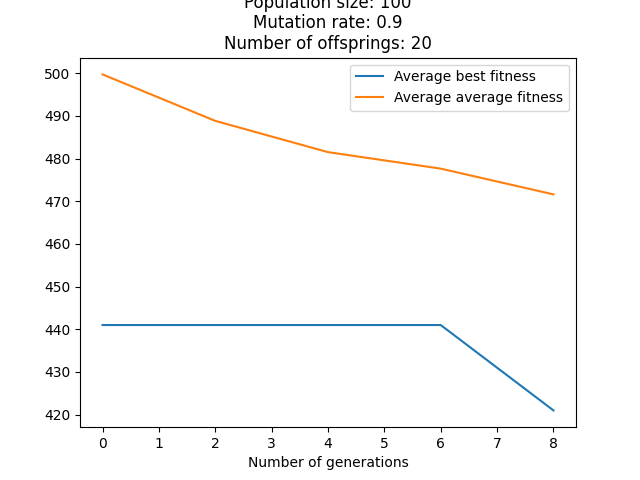
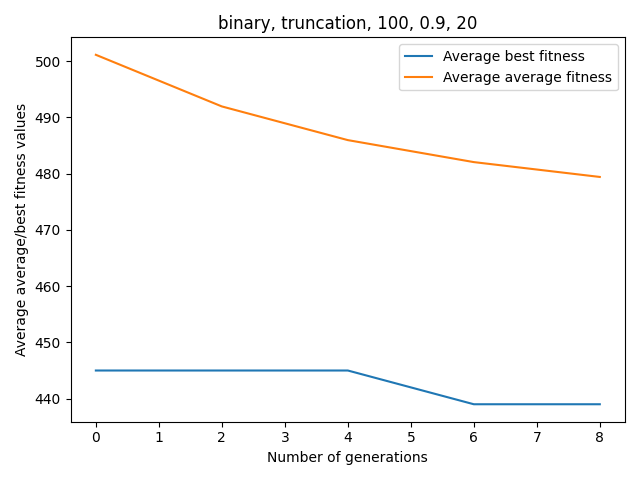
gantt chart formatting

diff --git a/jss.py b/jss.py
@@ -7,6 +7,7 @@ from tqdm import tqdm
 from evolutionary_algorithm import Individual, EvolutionaryAlgorithm
 import matplotlib.pyplot as plt
 import plotly.figure_factory as ff
+import plotly.colors as plc
 
 ''' Loading dataset '''
 
@@ -42,8 +43,16 @@ def read_dataset(dataset_path: str) -> dict:
 datasets = read_dataset(dataset_path=dataset_path)
 current_dataset = datasets['abz7']
 
-
-
+# Deciding colors for 
+# colors = {}
+# for i in range(current_dataset["num_jobs"]):
+#     color = (np.random.uniform(), np.random.uniform(), np.random.uniform())
+#     colors["Job-"+str(i)] = color
+tasks = ['Job-'+str(i) for i in range(current_dataset["num_jobs"])]
+# Generate a list of distinct colors for the tasks
+pallette = plc.qualitative.Alphabet
+# Create a dictionary to map tasks to colors
+colors = dict(zip(tasks, pallette))
 
 
 
@@ -66,15 +75,16 @@ def calculate_schedule_time(job_schedule: list) -> float:
     jobs = copy.deepcopy(current_dataset["jobs"])
     num_jobs = len(jobs)
     while jobs != [None] * num_jobs:
-        for index, job_number in enumerate(job_schedule):
-            if not job_currently_in_any_machine(job_number, machines_dict):
-                machine_number = jobs[job_number][0][0]
-                if(machines_dict[machine_number] == None):
-                    machine_number, time_step = jobs[job_number].pop()
-                    machines_dict[machine_number] = [job_number, time_step]
-                    del job_schedule[index]
-                    if(jobs[job_number] == []):
-                        jobs[job_number] = None
+        if(None in machines_dict.values()):
+            for index, job_number in enumerate(job_schedule):
+                if not job_currently_in_any_machine(job_number, machines_dict):
+                    machine_number = jobs[job_number][0][0]
+                    if(machines_dict[machine_number] == None):
+                        machine_number, time_step = jobs[job_number].pop()
+                        machines_dict[machine_number] = [job_number, time_step]
+                        del job_schedule[index]
+                        if(jobs[job_number] == []):
+                            jobs[job_number] = None
 
         for i in machines_dict:
             if(machines_dict[i] != None):
@@ -123,16 +133,17 @@ class JobSchedule(Individual):
         jobs = copy.deepcopy(current_dataset["jobs"])
         num_jobs = len(jobs)
         while jobs != [None] * num_jobs:
-            for index, job_number in enumerate(job_schedule):
-                if not job_currently_in_any_machine(job_number, machines_dict):
-                    machine_number = jobs[job_number][0][0]
-                    if(machines_dict[machine_number] == None):
-                        machine_number, time_step = jobs[job_number].pop()
-                        # saving time_step twice so that I can use it to get time taken
-                        machines_dict[machine_number] = [job_number, time_step, time_step]
-                        del job_schedule[index]
-                        if(jobs[job_number] == []):
-                            jobs[job_number] = None
+            if(None in machines_dict.values()):
+                for index, job_number in enumerate(job_schedule):
+                    if not job_currently_in_any_machine(job_number, machines_dict):
+                        machine_number = jobs[job_number][0][0]
+                        if(machines_dict[machine_number] == None):
+                            machine_number, time_step = jobs[job_number].pop()
+                            # saving time_step twice so that I can use it to get time taken
+                            machines_dict[machine_number] = [job_number, time_step, time_step]
+                            del job_schedule[index]
+                            if(jobs[job_number] == []):
+                                jobs[job_number] = None
 
             for i in machines_dict:
                 if(machines_dict[i] != None):
@@ -143,20 +154,18 @@ class JobSchedule(Individual):
                                   Start=total_time-machines_dict[i][2],
                                   Finish=total_time, 
                                   Resource="Job-"+str(machines_dict[i][0]))
-                        )
+                                )
                         machines_dict[i] = None
             
             total_time += 1
         
         ''' Plotting '''
-        colors = {}
-        for i in range(num_jobs):
-            color = (np.random.uniform(), np.random.uniform(), np.random.uniform())
-            colors["Job-"+str(i)] = color
-
-        fig = ff.create_gantt(machines_timeline, colors=colors, index_col='Resource', show_colorbar=True,
+        # we have defined colors above
+        fig = ff.create_gantt(sorted(machines_timeline, key=lambda x: x["Task"]), 
+                              colors=colors, index_col='Resource', show_colorbar=True,
                       group_tasks=True, bar_width=0.1)
         fig.update_layout(xaxis_type='linear')
+        fig.update_layout(height=800)
         fig.write_image(name)
 
 
@@ -217,7 +226,7 @@ class JSS_EvolutionaryAlgorithm(EvolutionaryAlgorithm):
       for j in range(num_iterations):
         for i in tqdm(range(num_generations), desc='Iteration '+str(j+1)):
           self.run_generation()
-          if(i % x_offset    == 0):
+          if(i % x_offset == 0):
             best_individual, average_fitness = self.get_average_and_best_individual()
             print("\nAverage fitness: ", average_fitness, ", Best value: ", best_individual.fitness)
             # print(best_individual.genome)
@@ -251,8 +260,8 @@ selection_pairs = [
                     ('rank', 'binary', 100, 0.5, 100),
                   ]
 
-num_generations = 10
-num_iterations = 1
+num_generations = 500
+num_iterations = 5
 x_offset = num_generations // 5
 
 for parent_selection, survivor_selection, population_size, mutation_rate, num_offsprings in selection_pairs:
@@ -284,12 +293,11 @@ for parent_selection, survivor_selection, population_size, mutation_rate, num_of
   plt.plot(x, y2, label='Average average fitness')
 
   plt.xlabel('Number of generations')
-  # plt.ylabel('Average average/best fitness values')
-  plt.title('Parent selection: ' + parent_selection + '\n' +
-          'Survivor selection: ' + survivor_selection + '\n' +
-          'Population size: ' + str(population_size) + '\n' +
-          'Mutation rate: ' + str(mutation_rate) + '\n' +
-          'Number of offsprings: ' + str(num_offsprings))
+  plt.ylabel('Average average/best fitness values')
+  plt.title(parent_selection + ', ' +survivor_selection + ', ' +
+          str(population_size) + ', ' +
+          str(mutation_rate) + ', ' +
+          str(num_offsprings))
   plt.legend()
   plt.tight_layout()
   plt.savefig('data/jss_analysis/'+parent_selection+'_'+survivor_selection+'.png')  # Save as PNG
@@ -297,3 +305,4 @@ for parent_selection, survivor_selection, population_size, mutation_rate, num_of
   # Plot job schedule of best individual in the last iteration
   best_individual.save_as_gantt_chart('data/jss_analysis/'+parent_selection
                                       +'_'+survivor_selection+'_gantt_chart.png')
+  print(best_individual.genome)

diff --git a/tsp.py b/tsp.py
@@ -148,8 +148,8 @@ selection_pairs = [
                     ('rank', 'binary', 100, 0.5, 100),
                   ]
 
-num_generations = 1000
-num_iterations = 10
+num_generations = 400
+num_iterations = 1
 x_offset = num_generations // 20
 
 
@@ -182,30 +182,26 @@ for parent_selection, survivor_selection, population_size, mutation_rate, num_of
   plt.plot(x, y2, label='Average average fitness')
 
   plt.xlabel('Number of generations')
-  # plt.ylabel('Average average/best fitness values')
-  plt.title('Parent selection: ' + parent_selection + '\n' +
-          'Survivor selection: ' + survivor_selection + '\n' +
-          'Population size: ' + str(population_size) + '\n' +
-          'Mutation rate: ' + str(mutation_rate) + '\n' +
-          'Number of offsprings: ' + str(num_offsprings),
-          )
-  plt.text(0.5, 0.01, 'Population size: ' + str(population_size) + ', Mutation rate: ' + str(mutation_rate),
-             horizontalalignment='center', verticalalignment='center', transform=plt.gca().transAxes)
+  plt.ylabel('Average average/best fitness values')
+  plt.title(parent_selection + ', ' +survivor_selection + ', ' +
+          str(population_size) + ', ' +
+          str(mutation_rate) + ', ' +
+          str(num_offsprings))
   plt.legend()
 
   plt.savefig('data/tsp_analysis/'+parent_selection+'_'+survivor_selection+'.png')  # Save as PNG
-
-  # Plot path of best individual in the last iteration
-  path_coordinates = [city_dict[city] for city in best_individual.genome]
-  path_coordinates.append(path_coordinates[0])
-  x_coords, y_coords = zip(*path_coordinates)
-  plt.figure()
-  plt.plot(x_coords, y_coords, marker='o', linestyle='-')
-  plt.xlabel('X-coordinate')
-  plt.ylabel('Y-coordinate')
-  plt.title('Parent selection: ' + parent_selection + '\n' +
-          'Survivor selection: ' + survivor_selection + '\n' +
-          'Population size: ' + str(population_size) + '\n' +
-          'Mutation rate: ' + str(mutation_rate) + '\n' +
-          'Number of offsprings: ' + str(num_offsprings))
-  plt.savefig('data/tsp_analysis/'+parent_selection+'_'+survivor_selection+'_path.png')
+  print(best_individual.genome)
+  # Plot path of best individual in the last iteration. Commented out because plots are not good
+  # path_coordinates = [city_dict[city] for city in best_individual.genome]
+  # path_coordinates.append(path_coordinates[0])
+  # x_coords, y_coords = zip(*path_coordinates)
+  # plt.figure()
+  # plt.plot(x_coords, y_coords, marker='o', linestyle='-')
+  # plt.xlabel('X-coordinate')
+  # plt.ylabel('Y-coordinate')
+  # plt.title('Parent selection: ' + parent_selection + '\n' +
+  #         'Survivor selection: ' + survivor_selection + '\n' +
+  #         'Population size: ' + str(population_size) + '\n' +
+  #         'Mutation rate: ' + str(mutation_rate) + '\n' +
+  #         'Number of offsprings: ' + str(num_offsprings))
+  # plt.savefig('data/tsp_analysis/'+parent_selection+'_'+survivor_selection+'_path.png')
